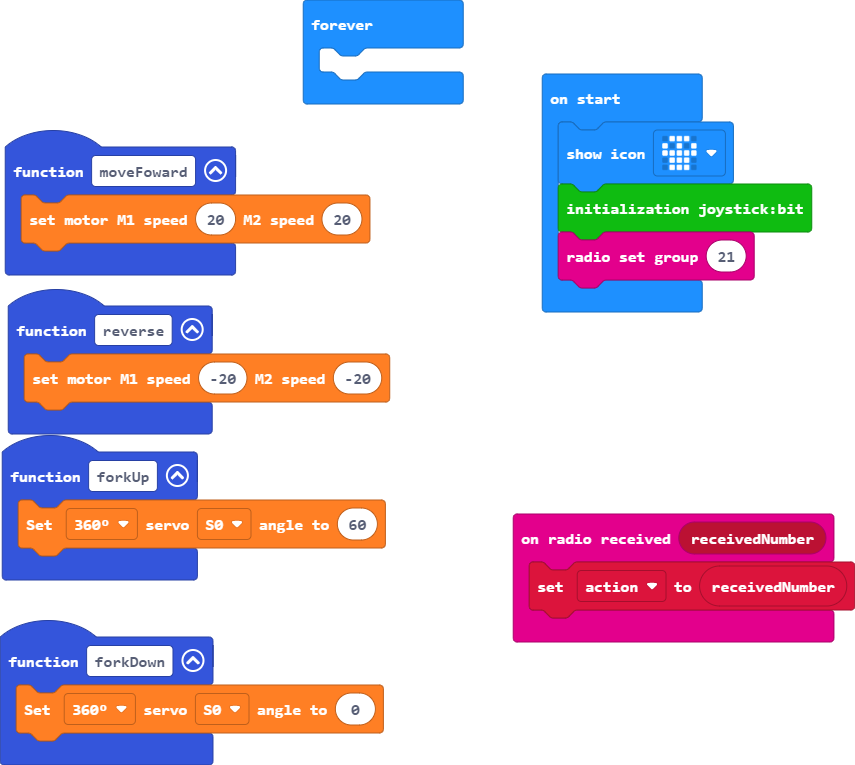
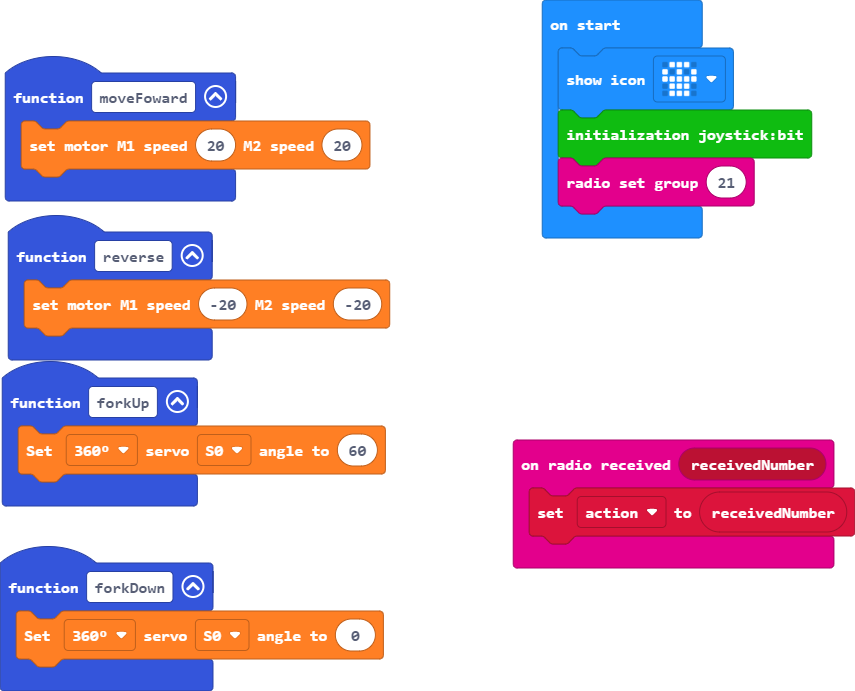
Update main.blocks, main.ts

diff --git a/main.ts b/main.ts
@@ -17,6 +17,3 @@ let action = 0
 basic.showIcon(IconNames.Skull)
 joystickbit.initJoystickBit()
 radio.setGroup(21)
-basic.forever(function () {
-	
-})
